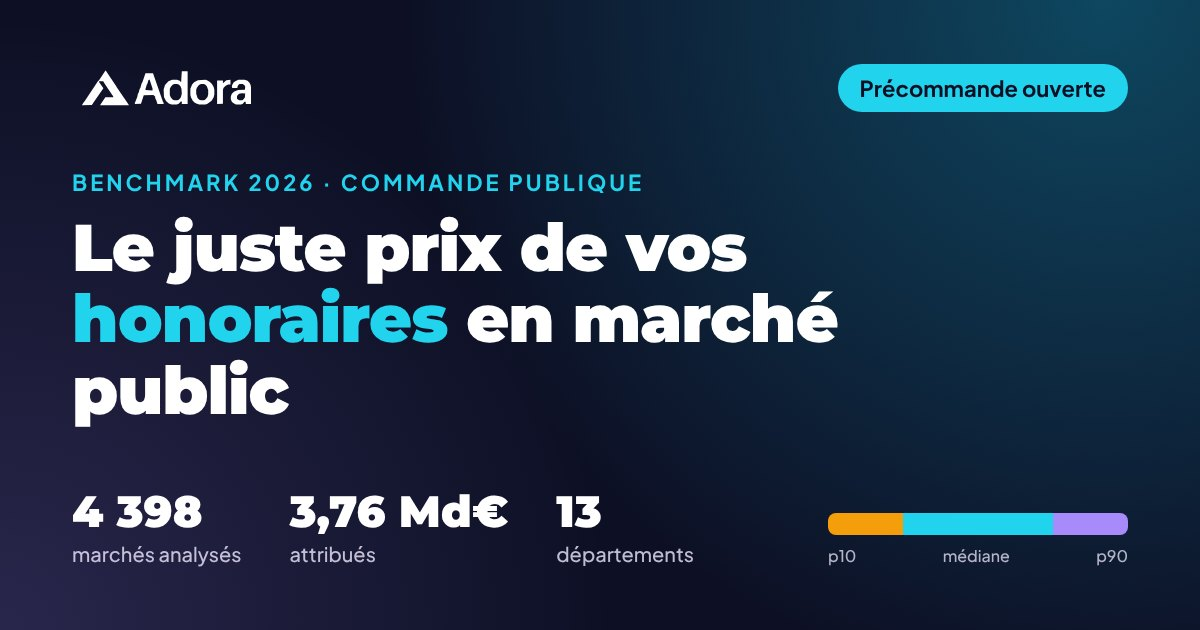
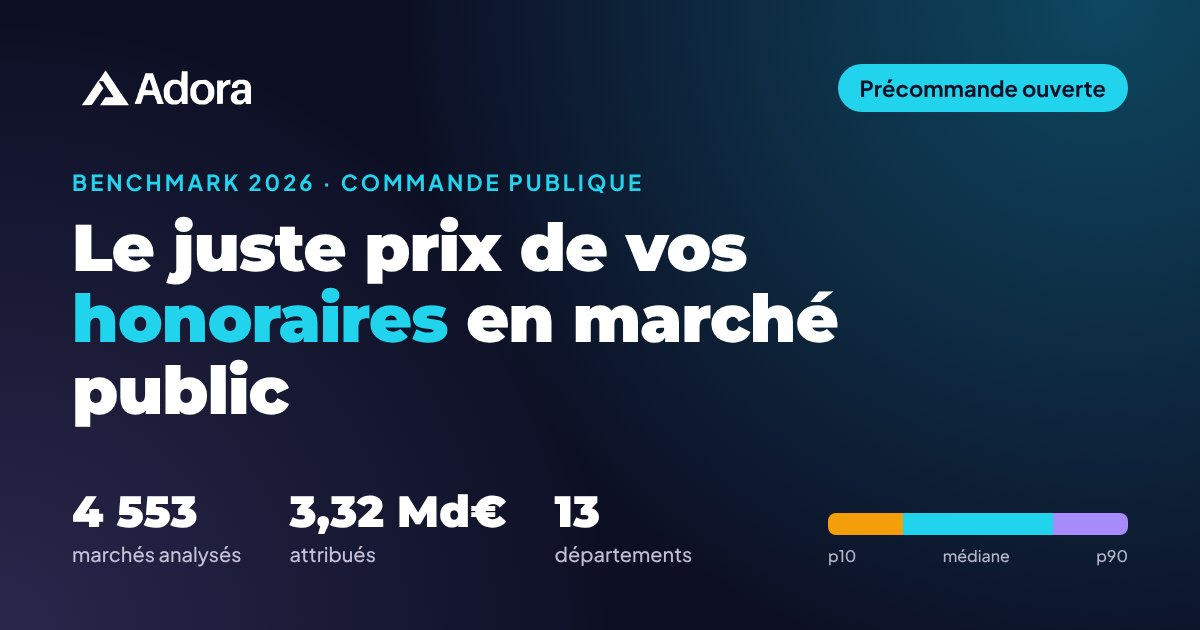
Benchmark : chiffres actualisés sur l'extraction DECP consolidée du 26/10/2026 (4 553 marchés)
Claude-Session: https://claude.ai/code/session_01AMF5KYxt2yLyme2bcbJtRg

diff --git a/benchmark-honoraires.html b/benchmark-honoraires.html
@@ -11,12 +11,12 @@
 <link rel="stylesheet" href="assets/fonts/adora-fonts.css">
 
 <title>Benchmark des honoraires en marché public 2026 | IDF &amp; Normandie | ADORA</title>
-<meta name="description" content="4 398 marchés publics de maîtrise d'œuvre et d'ingénierie analysés en Île-de-France et en Normandie. Fourchettes d'honoraires p10 à p90 par typologie. Précommande 79 €.">
+<meta name="description" content="4 553 marchés publics de maîtrise d'œuvre et d'ingénierie analysés en Île-de-France et en Normandie. Fourchettes d'honoraires p10 à p90 par typologie. Précommande 79 €.">
 <link rel="canonical" href="https://adora-economie.fr/benchmark-honoraires.html">
 <meta property="og:type" content="product">
 <meta property="og:url" content="https://adora-economie.fr/benchmark-honoraires.html">
 <meta property="og:title" content="Le juste prix de vos honoraires en marché public | ADORA">
-<meta property="og:description" content="4 398 marchés de maîtrise d'œuvre et d'ingénierie analysés, fourchettes p10 à p90 par typologie et par département. Précommande au prix de lancement.">
+<meta property="og:description" content="4 553 marchés de maîtrise d'œuvre et d'ingénierie analysés, fourchettes p10 à p90 par typologie et par département. Précommande au prix de lancement.">
 <meta property="og:image" content="https://adora-economie.fr/img/articles/benchmark-honoraires.jpg">
 <meta property="og:image:width" content="1200">
 <meta property="og:image:height" content="630">
@@ -25,7 +25,7 @@
 <meta property="og:site_name" content="ADORA">
 <meta name="twitter:card" content="summary_large_image">
 <meta name="twitter:title" content="Le juste prix de vos honoraires en marché public | ADORA">
-<meta name="twitter:description" content="4 398 marchés publics analysés, fourchettes d'honoraires p10 à p90 par typologie. Précommande 79 €.">
+<meta name="twitter:description" content="4 553 marchés publics analysés, fourchettes d'honoraires p10 à p90 par typologie. Précommande 79 €.">
 <meta name="twitter:image" content="https://adora-economie.fr/img/articles/benchmark-honoraires.jpg">
 <meta name="geo.region" content="FR-NOR">
 <meta name="geo.placename" content="Louviers">
@@ -300,8 +300,8 @@ img{max-width:100%;height:auto}
 .bm-bar-row .lbl{flex:none;width:104px;font-size:13px;font-weight:600;color:rgba(237,233,254,.92)}
 .bm-bar-track{flex:1 1 auto;min-width:0;height:14px;border-radius:100px;background:rgba(255,255,255,.08)}
 .bm-bar-fill{height:14px;border-radius:100px}
-.bm-bar-fill.nor{width:40%;background:var(--green)}
-.bm-bar-fill.idf{width:100%;background:linear-gradient(90deg,var(--accent) 0%,var(--accent) 58%,rgba(34,211,238,.35) 58%,rgba(34,211,238,.35) 100%)}
+.bm-bar-fill.nor{width:68%;background:var(--green)}
+.bm-bar-fill.idf{width:100%;background:var(--accent)}
 .bm-bar-axis{display:flex;gap:12px}
 .bm-bar-axis .sp{flex:none;width:104px}
 .bm-bar-axis .ax{flex:1 1 auto;position:relative;height:18px;font-family:var(--mono);font-size:11.5px;color:rgba(237,233,254,.82)}
@@ -444,7 +444,7 @@ img{max-width:100%;height:auto}
       "@type": "Product",
       "@id": "https://adora-economie.fr/benchmark-honoraires.html#produit",
       "name": "Benchmark des honoraires en marché public 2026",
-      "description": "Rapport PDF et classeur Excel : 4 398 marchés publics de services d'architecture, d'ingénierie et d'inspection (CPV 71) attribués en Île-de-France et en Normandie, analysés par typologie d'opération et par département (fourchettes p10, p25, médiane, p75, p90).",
+      "description": "Rapport PDF et classeur Excel : 4 553 marchés publics de services d'architecture, d'ingénierie et d'inspection (CPV 71) attribués en Île-de-France et en Normandie, analysés par typologie d'opération et par département (fourchettes p10, p25, médiane, p75, p90).",
       "image": "https://adora-economie.fr/img/articles/benchmark-honoraires.jpg",
       "brand": { "@type": "Brand", "name": "ADORA" },
       "category": "Rapport d'étude de marché",
@@ -531,7 +531,7 @@ img{max-width:100%;height:auto}
         <button type="button" class="anav-trigger" aria-expanded="false" aria-controls="anav-pro">Professionnels<svg aria-hidden="true" width="14" height="14" viewBox="0 0 24 24" fill="none" stroke="currentColor" stroke-width="2.4" stroke-linecap="round" stroke-linejoin="round"><path d="M6 9l6 6 6-6"/></svg></button>
         <div class="anav-drop" id="anav-pro"><div class="anav-drop-card">
           <a href="professionnels.html" class="anav-link"><span class="t">Offre professionnels</span><span class="d">Estimations, métrés, CCTP, DPGF, analyse des offres</span></a>
-          <a href="benchmark-honoraires.html" class="anav-link" aria-current="page"><span class="t">Benchmark des honoraires <span class="anav-new">Nouveau</span></span><span class="d">4 398 marchés publics analysés</span></a>
+          <a href="benchmark-honoraires.html" class="anav-link" aria-current="page"><span class="t">Benchmark des honoraires <span class="anav-new">Nouveau</span></span><span class="d">4 553 marchés publics analysés</span></a>
           <a href="partenaires.html#devenir-partenaire" class="anav-link"><span class="t">Devenir partenaire</span><span class="d">Architectes et professionnels du bâtiment</span></a>
         </div></div>
       </li>
@@ -566,7 +566,7 @@ img{max-width:100%;height:auto}
         <span class="hero-badge">Édition 2026</span>
       </div>
       <h1>Le juste prix de vos <em>honoraires</em> en marché public.</h1>
-      <p class="lead">4 398 marchés de prestations d'architecture, d'ingénierie et d'assistance, classés par typologie d'opération et par département. Les fourchettes réellement retenues par les acheteurs publics, réunies dans un seul rapport.</p>
+      <p class="lead">4 553 marchés de prestations d'architecture, d'ingénierie et d'assistance, classés par typologie d'opération et par département. Les fourchettes réellement retenues par les acheteurs publics, réunies dans un seul rapport.</p>
       <div class="bm-hero-ctas">
         <a href="#offre" class="btn btn-accent">Précommander à 79 €</a>
         <a href="#contenu" class="btn btn-outline">Voir le contenu</a>
@@ -575,12 +575,12 @@ img{max-width:100%;height:auto}
     </div>
     <div class="bm-stats">
       <div class="bm-stats-grid">
-        <div><span class="bm-stat-val">4 398</span><span class="bm-stat-lbl">marchés attribués</span></div>
-        <div><span class="bm-stat-val">3,76 Md€</span><span class="bm-stat-lbl">de montants cumulés HT</span></div>
-        <div><span class="bm-stat-val">2 123</span><span class="bm-stat-lbl">titulaires différents</span></div>
+        <div><span class="bm-stat-val">4 553</span><span class="bm-stat-lbl">marchés attribués</span></div>
+        <div><span class="bm-stat-val">3,32 Md€</span><span class="bm-stat-lbl">de montants cumulés HT</span></div>
+        <div><span class="bm-stat-val">3 205</span><span class="bm-stat-lbl">titulaires différents</span></div>
         <div><span class="bm-stat-val">13</span><span class="bm-stat-lbl">départements couverts</span></div>
       </div>
-      <p class="bm-source">Source : DECP, data.economie.gouv.fr · Licence Ouverte 2.0<br>Extraction de mai 2026, actualisée pour la livraison</p>
+      <p class="bm-source">Source : DECP consolidées, data.gouv.fr · Licence Ouverte 2.0<br>Marchés notifiés du 27/10/2024 au 26/10/2026</p>
     </div>
   </div>
 </section>
@@ -625,7 +625,7 @@ img{max-width:100%;height:auto}
         <div class="bm-clean-out">
           <span class="bm-tag">Dans le rapport</span>
           <strong>Réhabilitation / rénovation</strong>
-          <div class="bm-chips"><span class="bm-chip">513 marchés</span><span class="bm-chip">p10 : 50 k€</span><span class="bm-chip">Médiane : 137 k€</span></div>
+          <div class="bm-chips"><span class="bm-chip">544 marchés</span><span class="bm-chip">p10 : 52 k€</span><span class="bm-chip">Médiane : 136 k€</span></div>
         </div>
       </div>
       <p class="bm-clean-end">J'ai rassemblé ces données, je les ai nettoyées et classées, pour que vous puissiez situer votre offre avant de la déposer.</p>
@@ -639,34 +639,34 @@ img{max-width:100%;height:auto}
     <div class="bm-head">
       <span class="bm-eyebrow on-dark">Deux repères tirés du benchmark</span>
       <h2 class="bm-h2 on-dark">Deux chiffres qui changent la façon de chiffrer</h2>
-      <p class="bm-lead on-dark">Extraits de l'analyse des 4 398 marchés. Le rapport les détaille famille par famille.</p>
+      <p class="bm-lead on-dark">Extraits de l'analyse des 4 553 marchés. Le rapport les détaille famille par famille.</p>
     </div>
     <div class="bm-cards-2">
       <div class="bm-dark-card">
         <div>
           <span class="k">Écart territorial</span>
-          <span class="v cyan">+45 % à +150 %</span>
-          <p>L'écart des montants attribués entre l'Île-de-France et la Normandie, selon la famille de prestations.</p>
+          <span class="v cyan">+47 %</span>
+          <p>L'écart de montant médian attribué entre l'Île-de-France et la Normandie, tous marchés confondus. Selon la famille de prestations, il va de −19 % à +217 %.</p>
         </div>
-        <div class="bm-viz" role="img" aria-label="Indice des montants attribués : Normandie 100, Île-de-France de 145 à 250 selon la famille de prestations.">
+        <div class="bm-viz" role="img" aria-label="Montant médian attribué, indice 100 en Normandie : Île-de-France 147.">
           <div class="bm-bar-row" aria-hidden="true"><span class="lbl">Normandie</span><div class="bm-bar-track"><div class="bm-bar-fill nor"></div></div></div>
           <div class="bm-bar-row" aria-hidden="true"><span class="lbl">Île-de-France</span><div class="bm-bar-track"><div class="bm-bar-fill idf"></div></div></div>
-          <div class="bm-bar-axis" aria-hidden="true"><span class="sp"></span><div class="ax"><span style="left:40%">100</span><span style="left:58%">+45 %</span><span>+150 %</span></div></div>
-          <span class="bm-viz-note" aria-hidden="true">Indice 100 = montants attribués en Normandie</span>
+          <div class="bm-bar-axis" aria-hidden="true"><span class="sp"></span><div class="ax"><span style="left:68%">100</span><span>147</span></div></div>
+          <span class="bm-viz-note" aria-hidden="true">Indice 100 = montant médian attribué en Normandie</span>
         </div>
         <p class="bm-takeaway cyan"><strong>Ce que ça change :</strong> un même prix ne se lit pas pareil à Paris et à Évreux. Chiffrer sans repère territorial, c'est se tromper de marché.</p>
       </div>
       <div class="bm-dark-card">
         <div>
           <span class="k">Concentration du marché</span>
-          <span class="v iris">17,6 %</span>
-          <p>La part du volume captée par les 50 premiers titulaires, sur 2 123 titulaires différents.</p>
+          <span class="v iris">1 marché sur 5</span>
+          <p>La part des marchés où l'on retrouve l'un des 50 titulaires les plus actifs, sur 3 205 titulaires différents.</p>
         </div>
         <div class="bm-viz bm-donut-wrap">
-          <svg role="img" aria-label="Les 50 premiers titulaires captent 17,6 % du volume, les 2 073 autres 82,4 %." width="132" height="132" viewBox="0 0 120 120"><circle cx="60" cy="60" r="46" fill="none" stroke="#4A4A7A" stroke-width="16"/><circle cx="60" cy="60" r="46" fill="none" stroke="#A78BFA" stroke-width="16" stroke-dasharray="50.87 289.03" transform="rotate(-90 60 60)"/><text x="60" y="57" text-anchor="middle" font-family="Montserrat, sans-serif" font-weight="800" font-size="16" fill="#FFFFFF">Top 50</text><text x="60" y="74" text-anchor="middle" font-family="ui-monospace, Menlo, monospace" font-size="11" fill="#C9CFE0">17,6 %</text></svg>
+          <svg role="img" aria-label="Les 50 titulaires les plus actifs sont présents dans 20 % des marchés ; 80 % des marchés vont à d'autres titulaires." width="132" height="132" viewBox="0 0 120 120"><circle cx="60" cy="60" r="46" fill="none" stroke="#4A4A7A" stroke-width="16"/><circle cx="60" cy="60" r="46" fill="none" stroke="#A78BFA" stroke-width="16" stroke-dasharray="58.96 289.03" transform="rotate(-90 60 60)"/><text x="60" y="57" text-anchor="middle" font-family="Montserrat, sans-serif" font-weight="800" font-size="16" fill="#FFFFFF">Top 50</text><text x="60" y="74" text-anchor="middle" font-family="ui-monospace, Menlo, monospace" font-size="11" fill="#C9CFE0">20 %</text></svg>
           <div class="bm-legend">
-            <div><i style="background:#A78BFA"></i><span><b>50 premiers titulaires</b><small>17,6 % du volume</small></span></div>
-            <div><i style="background:#4A4A7A;border:1px solid rgba(255,255,255,.3)"></i><span><b>2 073 autres titulaires</b><small>82,4 % du volume</small></span></div>
+            <div><i style="background:#A78BFA"></i><span><b>50 titulaires les plus actifs</b><small>présents dans 20 % des marchés</small></span></div>
+            <div><i style="background:#4A4A7A;border:1px solid rgba(255,255,255,.3)"></i><span><b>3 155 autres titulaires</b><small>seuls sur 80 % des marchés</small></span></div>
           </div>
         </div>
         <p class="bm-takeaway iris"><strong>Ce que ça change :</strong> le marché n'est pas verrouillé. Une structure indépendante bien positionnée y a toute sa place.</p>
@@ -767,9 +767,9 @@ img{max-width:100%;height:auto}
     <div>
       <span class="bm-eyebrow on-dark">La méthode</span>
       <h2 class="bm-h2 on-dark">Des données publiques, lues par un économiste.</h2>
-      <p>Source : données essentielles de la commande publique (DECP), publiées par l'État sur data.economie.gouv.fr sous Licence Ouverte 2.0.</p>
+      <p>Source : données essentielles de la commande publique (DECP) consolidées, publiées sur data.gouv.fr sous Licence Ouverte 2.0.</p>
       <p>Périmètre : marchés de services d'architecture, d'ingénierie et d'inspection (codes CPV 71) de plus de 40 000 € HT, notifiés sur les deux dernières années glissantes, avec un lieu d'exécution dans l'un des 13 départements.</p>
-      <p>Les données DECP sont déclaratives : les montants aberrants sont écartés et chaque traitement est documenté dans le rapport.</p>
+      <p>Les données DECP sont déclaratives : les publications en double sont regroupées, les montants anormaux écartés, et chaque traitement est documenté dans le rapport.</p>
     </div>
     <div class="bm-author">
       <span class="k">L'auteur</span>

diff --git a/professionnels.html b/professionnels.html
@@ -472,7 +472,7 @@ img{max-width:100%;height:auto}
         <button type="button" class="anav-trigger" aria-expanded="false" aria-controls="anav-pro">Professionnels<svg aria-hidden="true" width="14" height="14" viewBox="0 0 24 24" fill="none" stroke="currentColor" stroke-width="2.4" stroke-linecap="round" stroke-linejoin="round"><path d="M6 9l6 6 6-6"/></svg></button>
         <div class="anav-drop" id="anav-pro"><div class="anav-drop-card">
           <a href="professionnels.html" class="anav-link" aria-current="page"><span class="t">Offre professionnels</span><span class="d">Estimations, métrés, CCTP, DPGF, analyse des offres</span></a>
-          <a href="benchmark-honoraires.html" class="anav-link"><span class="t">Benchmark des honoraires <span class="anav-new">Nouveau</span></span><span class="d">4 398 marchés publics analysés</span></a>
+          <a href="benchmark-honoraires.html" class="anav-link"><span class="t">Benchmark des honoraires <span class="anav-new">Nouveau</span></span><span class="d">4 553 marchés publics analysés</span></a>
           <a href="partenaires.html#devenir-partenaire" class="anav-link"><span class="t">Devenir partenaire</span><span class="d">Architectes et professionnels du bâtiment</span></a>
         </div></div>
       </li>
@@ -587,7 +587,7 @@ img{max-width:100%;height:auto}
       <div style="flex:1 1 380px;min-width:0">
         <p style="margin:0 0 8px;font-size:12px;font-weight:700;letter-spacing:2px;text-transform:uppercase;color:#22D3EE">Nouveau · Benchmark 2026</p>
         <p style="margin:0 0 8px;font-family:'Montserrat',sans-serif;font-weight:800;font-size:22px;line-height:1.25;color:#FFFFFF">Et vos propres honoraires en marché public&#8239;?</p>
-        <p style="margin:0;font-size:15px;line-height:1.65;color:rgba(214,228,240,.85)">J'ai analysé 4 398 marchés de maîtrise d'œuvre et d'ingénierie attribués en Île-de-France et en Normandie. Le benchmark donne les fourchettes réellement retenues, typologie par typologie, pour situer votre offre avant de la déposer.</p>
+        <p style="margin:0;font-size:15px;line-height:1.65;color:rgba(214,228,240,.85)">J'ai analysé 4 553 marchés de maîtrise d'œuvre et d'ingénierie attribués en Île-de-France et en Normandie. Le benchmark donne les fourchettes réellement retenues, typologie par typologie, pour situer votre offre avant de la déposer.</p>
       </div>
       <a href="benchmark-honoraires.html" class="btn btn-accent" style="font-size:14px;padding:14px 26px;color:#0D1025;white-space:nowrap">Découvrir le benchmark</a>
     </div>

diff --git a/dpgf-comparable-consultation.html b/dpgf-comparable-consultation.html
@@ -299,7 +299,7 @@ img{max-width:100%;height:auto}
         <button type="button" class="anav-trigger" aria-expanded="false" aria-controls="anav-pro">Professionnels<svg aria-hidden="true" width="14" height="14" viewBox="0 0 24 24" fill="none" stroke="currentColor" stroke-width="2.4" stroke-linecap="round" stroke-linejoin="round"><path d="M6 9l6 6 6-6"/></svg></button>
         <div class="anav-drop" id="anav-pro"><div class="anav-drop-card">
           <a href="professionnels.html" class="anav-link"><span class="t">Offre professionnels</span><span class="d">Estimations, métrés, CCTP, DPGF, analyse des offres</span></a>
-          <a href="benchmark-honoraires.html" class="anav-link"><span class="t">Benchmark des honoraires <span class="anav-new">Nouveau</span></span><span class="d">4 398 marchés publics analysés</span></a>
+          <a href="benchmark-honoraires.html" class="anav-link"><span class="t">Benchmark des honoraires <span class="anav-new">Nouveau</span></span><span class="d">4 553 marchés publics analysés</span></a>
           <a href="partenaires.html#devenir-partenaire" class="anav-link"><span class="t">Devenir partenaire</span><span class="d">Architectes et professionnels du bâtiment</span></a>
         </div></div>
       </li>
@@ -433,7 +433,7 @@ img{max-width:100%;height:auto}
   <div style="flex:1 1 320px;min-width:0">
     <p style="margin:0 0 6px;font-size:12px;font-weight:700;letter-spacing:1.5px;text-transform:uppercase;color:#0E7490">Nouveau · Benchmark 2026</p>
     <p style="margin:0 0 6px;font-family:'Montserrat',sans-serif;font-weight:800;font-size:19px;line-height:1.3;color:#0D1025">Combien les acheteurs publics paient-ils vraiment une mission&#8239;?</p>
-    <p style="margin:0;font-size:15px;line-height:1.6;color:#64748B">4 398 marchés de maîtrise d'œuvre et d'ingénierie analysés en Île-de-France et en Normandie : fourchettes d'honoraires p10 à p90 par typologie et par département.</p>
+    <p style="margin:0;font-size:15px;line-height:1.6;color:#64748B">4 553 marchés de maîtrise d'œuvre et d'ingénierie analysés en Île-de-France et en Normandie : fourchettes d'honoraires p10 à p90 par typologie et par département.</p>
   </div>
   <a href="benchmark-honoraires.html" class="btn btn-accent" style="font-size:14px;padding:14px 24px;color:#0D1025">Découvrir le benchmark</a>
 </aside>

diff --git a/erreur-quantitatif-dce.html b/erreur-quantitatif-dce.html
@@ -299,7 +299,7 @@ img{max-width:100%;height:auto}
         <button type="button" class="anav-trigger" aria-expanded="false" aria-controls="anav-pro">Professionnels<svg aria-hidden="true" width="14" height="14" viewBox="0 0 24 24" fill="none" stroke="currentColor" stroke-width="2.4" stroke-linecap="round" stroke-linejoin="round"><path d="M6 9l6 6 6-6"/></svg></button>
         <div class="anav-drop" id="anav-pro"><div class="anav-drop-card">
           <a href="professionnels.html" class="anav-link"><span class="t">Offre professionnels</span><span class="d">Estimations, métrés, CCTP, DPGF, analyse des offres</span></a>
-          <a href="benchmark-honoraires.html" class="anav-link"><span class="t">Benchmark des honoraires <span class="anav-new">Nouveau</span></span><span class="d">4 398 marchés publics analysés</span></a>
+          <a href="benchmark-honoraires.html" class="anav-link"><span class="t">Benchmark des honoraires <span class="anav-new">Nouveau</span></span><span class="d">4 553 marchés publics analysés</span></a>
           <a href="partenaires.html#devenir-partenaire" class="anav-link"><span class="t">Devenir partenaire</span><span class="d">Architectes et professionnels du bâtiment</span></a>
         </div></div>
       </li>
@@ -425,7 +425,7 @@ img{max-width:100%;height:auto}
   <div style="flex:1 1 320px;min-width:0">
     <p style="margin:0 0 6px;font-size:12px;font-weight:700;letter-spacing:1.5px;text-transform:uppercase;color:#0E7490">Nouveau · Benchmark 2026</p>
     <p style="margin:0 0 6px;font-family:'Montserrat',sans-serif;font-weight:800;font-size:19px;line-height:1.3;color:#0D1025">Combien les acheteurs publics paient-ils vraiment une mission&#8239;?</p>
-    <p style="margin:0;font-size:15px;line-height:1.6;color:#64748B">4 398 marchés de maîtrise d'œuvre et d'ingénierie analysés en Île-de-France et en Normandie : fourchettes d'honoraires p10 à p90 par typologie et par département.</p>
+    <p style="margin:0;font-size:15px;line-height:1.6;color:#64748B">4 553 marchés de maîtrise d'œuvre et d'ingénierie analysés en Île-de-France et en Normandie : fourchettes d'honoraires p10 à p90 par typologie et par département.</p>
   </div>
   <a href="benchmark-honoraires.html" class="btn btn-accent" style="font-size:14px;padding:14px 24px;color:#0D1025">Découvrir le benchmark</a>
 </aside>

diff --git a/honoraires-economiste-mission-moe.html b/honoraires-economiste-mission-moe.html
@@ -299,7 +299,7 @@ img{max-width:100%;height:auto}
         <button type="button" class="anav-trigger" aria-expanded="false" aria-controls="anav-pro">Professionnels<svg aria-hidden="true" width="14" height="14" viewBox="0 0 24 24" fill="none" stroke="currentColor" stroke-width="2.4" stroke-linecap="round" stroke-linejoin="round"><path d="M6 9l6 6 6-6"/></svg></button>
         <div class="anav-drop" id="anav-pro"><div class="anav-drop-card">
           <a href="professionnels.html" class="anav-link"><span class="t">Offre professionnels</span><span class="d">Estimations, métrés, CCTP, DPGF, analyse des offres</span></a>
-          <a href="benchmark-honoraires.html" class="anav-link"><span class="t">Benchmark des honoraires <span class="anav-new">Nouveau</span></span><span class="d">4 398 marchés publics analysés</span></a>
+          <a href="benchmark-honoraires.html" class="anav-link"><span class="t">Benchmark des honoraires <span class="anav-new">Nouveau</span></span><span class="d">4 553 marchés publics analysés</span></a>
           <a href="partenaires.html#devenir-partenaire" class="anav-link"><span class="t">Devenir partenaire</span><span class="d">Architectes et professionnels du bâtiment</span></a>
         </div></div>
       </li>
@@ -433,7 +433,7 @@ img{max-width:100%;height:auto}
   <div style="flex:1 1 320px;min-width:0">
     <p style="margin:0 0 6px;font-size:12px;font-weight:700;letter-spacing:1.5px;text-transform:uppercase;color:#0E7490">Nouveau · Benchmark 2026</p>
     <p style="margin:0 0 6px;font-family:'Montserrat',sans-serif;font-weight:800;font-size:19px;line-height:1.3;color:#0D1025">Combien les acheteurs publics paient-ils vraiment une mission&#8239;?</p>
-    <p style="margin:0;font-size:15px;line-height:1.6;color:#64748B">4 398 marchés de maîtrise d'œuvre et d'ingénierie analysés en Île-de-France et en Normandie : fourchettes d'honoraires p10 à p90 par typologie et par département.</p>
+    <p style="margin:0;font-size:15px;line-height:1.6;color:#64748B">4 553 marchés de maîtrise d'œuvre et d'ingénierie analysés en Île-de-France et en Normandie : fourchettes d'honoraires p10 à p90 par typologie et par département.</p>
   </div>
   <a href="benchmark-honoraires.html" class="btn btn-accent" style="font-size:14px;padding:14px 24px;color:#0D1025">Découvrir le benchmark</a>
 </aside>

diff --git a/rapport-analyse-offres-mapa.html b/rapport-analyse-offres-mapa.html
@@ -299,7 +299,7 @@ img{max-width:100%;height:auto}
         <button type="button" class="anav-trigger" aria-expanded="false" aria-controls="anav-pro">Professionnels<svg aria-hidden="true" width="14" height="14" viewBox="0 0 24 24" fill="none" stroke="currentColor" stroke-width="2.4" stroke-linecap="round" stroke-linejoin="round"><path d="M6 9l6 6 6-6"/></svg></button>
         <div class="anav-drop" id="anav-pro"><div class="anav-drop-card">
           <a href="professionnels.html" class="anav-link"><span class="t">Offre professionnels</span><span class="d">Estimations, métrés, CCTP, DPGF, analyse des offres</span></a>
-          <a href="benchmark-honoraires.html" class="anav-link"><span class="t">Benchmark des honoraires <span class="anav-new">Nouveau</span></span><span class="d">4 398 marchés publics analysés</span></a>
+          <a href="benchmark-honoraires.html" class="anav-link"><span class="t">Benchmark des honoraires <span class="anav-new">Nouveau</span></span><span class="d">4 553 marchés publics analysés</span></a>
           <a href="partenaires.html#devenir-partenaire" class="anav-link"><span class="t">Devenir partenaire</span><span class="d">Architectes et professionnels du bâtiment</span></a>
         </div></div>
       </li>
@@ -429,7 +429,7 @@ img{max-width:100%;height:auto}
   <div style="flex:1 1 320px;min-width:0">
     <p style="margin:0 0 6px;font-size:12px;font-weight:700;letter-spacing:1.5px;text-transform:uppercase;color:#0E7490">Nouveau · Benchmark 2026</p>
     <p style="margin:0 0 6px;font-family:'Montserrat',sans-serif;font-weight:800;font-size:19px;line-height:1.3;color:#0D1025">Combien les acheteurs publics paient-ils vraiment une mission&#8239;?</p>
-    <p style="margin:0;font-size:15px;line-height:1.6;color:#64748B">4 398 marchés de maîtrise d'œuvre et d'ingénierie analysés en Île-de-France et en Normandie : fourchettes d'honoraires p10 à p90 par typologie et par département.</p>
+    <p style="margin:0;font-size:15px;line-height:1.6;color:#64748B">4 553 marchés de maîtrise d'œuvre et d'ingénierie analysés en Île-de-France et en Normandie : fourchettes d'honoraires p10 à p90 par typologie et par département.</p>
   </div>
   <a href="benchmark-honoraires.html" class="btn btn-accent" style="font-size:14px;padding:14px 24px;color:#0D1025">Découvrir le benchmark</a>
 </aside>

diff --git a/blog.html b/blog.html
@@ -556,7 +556,7 @@ img{max-width:100%;height:auto}
         <button type="button" class="anav-trigger" aria-expanded="false" aria-controls="anav-pro">Professionnels<svg aria-hidden="true" width="14" height="14" viewBox="0 0 24 24" fill="none" stroke="currentColor" stroke-width="2.4" stroke-linecap="round" stroke-linejoin="round"><path d="M6 9l6 6 6-6"/></svg></button>
         <div class="anav-drop" id="anav-pro"><div class="anav-drop-card">
           <a href="professionnels.html" class="anav-link"><span class="t">Offre professionnels</span><span class="d">Estimations, métrés, CCTP, DPGF, analyse des offres</span></a>
-          <a href="benchmark-honoraires.html" class="anav-link"><span class="t">Benchmark des honoraires <span class="anav-new">Nouveau</span></span><span class="d">4 398 marchés publics analysés</span></a>
+          <a href="benchmark-honoraires.html" class="anav-link"><span class="t">Benchmark des honoraires <span class="anav-new">Nouveau</span></span><span class="d">4 553 marchés publics analysés</span></a>
           <a href="partenaires.html#devenir-partenaire" class="anav-link"><span class="t">Devenir partenaire</span><span class="d">Architectes et professionnels du bâtiment</span></a>
         </div></div>
       </li>
@@ -709,11 +709,11 @@ img{max-width:100%;height:auto}
       <aside class="pb-bench" aria-labelledby="pb-bench-title">
         <span class="pb-bench-tag">Précommande ouverte</span>
         <h3 id="pb-bench-title">Benchmark des honoraires en marché public 2026</h3>
-        <span class="pb-measure"><span class="pb-fig">4 398</span><span class="pb-dim"></span></span>
+        <span class="pb-measure"><span class="pb-fig">4 553</span><span class="pb-dim"></span></span>
         <span class="pb-cap">marchés attribués en Île-de-France et en Normandie, classés par typologie et par département</span>
         <dl class="pb-bench-stats">
-          <div><dt>3,76 Md€</dt><dd>de montants cumulés HT</dd></div>
-          <div><dt>2 123</dt><dd>titulaires différents</dd></div>
+          <div><dt>3,32 Md€</dt><dd>de montants cumulés HT</dd></div>
+          <div><dt>3 205</dt><dd>titulaires différents</dd></div>
         </dl>
         <ul>
           <li>Fourchettes d'honoraires du p10 au p90</li>

diff --git a/index.html b/index.html
@@ -284,7 +284,7 @@ img{max-width:100%;height:auto}
         <button type="button" class="anav-trigger" aria-expanded="false" aria-controls="anav-pro">Professionnels<svg aria-hidden="true" width="14" height="14" viewBox="0 0 24 24" fill="none" stroke="currentColor" stroke-width="2.4" stroke-linecap="round" stroke-linejoin="round"><path d="M6 9l6 6 6-6"/></svg></button>
         <div class="anav-drop" id="anav-pro"><div class="anav-drop-card">
           <a href="professionnels.html" class="anav-link"><span class="t">Offre professionnels</span><span class="d">Estimations, métrés, CCTP, DPGF, analyse des offres</span></a>
-          <a href="benchmark-honoraires.html" class="anav-link"><span class="t">Benchmark des honoraires <span class="anav-new">Nouveau</span></span><span class="d">4 398 marchés publics analysés</span></a>
+          <a href="benchmark-honoraires.html" class="anav-link"><span class="t">Benchmark des honoraires <span class="anav-new">Nouveau</span></span><span class="d">4 553 marchés publics analysés</span></a>
           <a href="partenaires.html#devenir-partenaire" class="anav-link"><span class="t">Devenir partenaire</span><span class="d">Architectes et professionnels du bâtiment</span></a>
         </div></div>
       </li>
@@ -431,7 +431,7 @@ img{max-width:100%;height:auto}
       </a>
       <a class="hm-tile" href="benchmark-honoraires.html" data-ev="pro_benchmark">
         <h3>Benchmark des honoraires 2026</h3>
-        <div class="hm-measure"><span class="hm-fig">4&nbsp;398</span><span class="hm-dim" aria-hidden="true"></span></div>
+        <div class="hm-measure"><span class="hm-fig">4&nbsp;553</span><span class="hm-dim" aria-hidden="true"></span></div>
         <span class="hm-cap">marchés publics d'architecture et d'ingénierie analysés</span>
         <p>Le juste prix de vos honoraires, typologie par typologie, en Île-de-France et en Normandie.</p>
         <span class="hm-tile-go">Découvrir le benchmark →</span>

diff --git a/paiement-reussi-benchmark.html b/paiement-reussi-benchmark.html
@@ -254,7 +254,7 @@ img{max-width:100%;height:auto}
         <button type="button" class="anav-trigger" aria-expanded="false" aria-controls="anav-pro">Professionnels<svg aria-hidden="true" width="14" height="14" viewBox="0 0 24 24" fill="none" stroke="currentColor" stroke-width="2.4" stroke-linecap="round" stroke-linejoin="round"><path d="M6 9l6 6 6-6"/></svg></button>
         <div class="anav-drop" id="anav-pro"><div class="anav-drop-card">
           <a href="professionnels.html" class="anav-link"><span class="t">Offre professionnels</span><span class="d">Estimations, métrés, CCTP, DPGF, analyse des offres</span></a>
-          <a href="benchmark-honoraires.html" class="anav-link" aria-current="page"><span class="t">Benchmark des honoraires <span class="anav-new">Nouveau</span></span><span class="d">4 398 marchés publics analysés</span></a>
+          <a href="benchmark-honoraires.html" class="anav-link" aria-current="page"><span class="t">Benchmark des honoraires <span class="anav-new">Nouveau</span></span><span class="d">4 553 marchés publics analysés</span></a>
           <a href="partenaires.html#devenir-partenaire" class="anav-link"><span class="t">Devenir partenaire</span><span class="d">Architectes et professionnels du bâtiment</span></a>
         </div></div>
       </li>

diff --git a/audit-formulaire.html b/audit-formulaire.html
@@ -270,7 +270,7 @@ input,select,textarea{font-family:inherit}
         <button type="button" class="anav-trigger" aria-expanded="false" aria-controls="anav-pro">Professionnels<svg aria-hidden="true" width="14" height="14" viewBox="0 0 24 24" fill="none" stroke="currentColor" stroke-width="2.4" stroke-linecap="round" stroke-linejoin="round"><path d="M6 9l6 6 6-6"/></svg></button>
         <div class="anav-drop" id="anav-pro"><div class="anav-drop-card">
           <a href="professionnels.html" class="anav-link"><span class="t">Offre professionnels</span><span class="d">Estimations, métrés, CCTP, DPGF, analyse des offres</span></a>
-          <a href="benchmark-honoraires.html" class="anav-link"><span class="t">Benchmark des honoraires <span class="anav-new">Nouveau</span></span><span class="d">4 398 marchés publics analysés</span></a>
+          <a href="benchmark-honoraires.html" class="anav-link"><span class="t">Benchmark des honoraires <span class="anav-new">Nouveau</span></span><span class="d">4 553 marchés publics analysés</span></a>
           <a href="partenaires.html#devenir-partenaire" class="anav-link"><span class="t">Devenir partenaire</span><span class="d">Architectes et professionnels du bâtiment</span></a>
         </div></div>
       </li>

diff --git a/simulateur.html b/simulateur.html
@@ -384,7 +384,7 @@ input,select,textarea{font-family:inherit}
         <button type="button" class="anav-trigger" aria-expanded="false" aria-controls="anav-pro">Professionnels<svg aria-hidden="true" width="14" height="14" viewBox="0 0 24 24" fill="none" stroke="currentColor" stroke-width="2.4" stroke-linecap="round" stroke-linejoin="round"><path d="M6 9l6 6 6-6"/></svg></button>
         <div class="anav-drop" id="anav-pro"><div class="anav-drop-card">
           <a href="professionnels.html" class="anav-link"><span class="t">Offre professionnels</span><span class="d">Estimations, métrés, CCTP, DPGF, analyse des offres</span></a>
-          <a href="benchmark-honoraires.html" class="anav-link"><span class="t">Benchmark des honoraires <span class="anav-new">Nouveau</span></span><span class="d">4 398 marchés publics analysés</span></a>
+          <a href="benchmark-honoraires.html" class="anav-link"><span class="t">Benchmark des honoraires <span class="anav-new">Nouveau</span></span><span class="d">4 553 marchés publics analysés</span></a>
           <a href="partenaires.html#devenir-partenaire" class="anav-link"><span class="t">Devenir partenaire</span><span class="d">Architectes et professionnels du bâtiment</span></a>
         </div></div>
       </li>

diff --git a/paiement-reussi.html b/paiement-reussi.html
@@ -172,7 +172,7 @@ a{color:inherit;text-decoration:none}
         <button type="button" class="anav-trigger" aria-expanded="false" aria-controls="anav-pro">Professionnels<svg aria-hidden="true" width="14" height="14" viewBox="0 0 24 24" fill="none" stroke="currentColor" stroke-width="2.4" stroke-linecap="round" stroke-linejoin="round"><path d="M6 9l6 6 6-6"/></svg></button>
         <div class="anav-drop" id="anav-pro"><div class="anav-drop-card">
           <a href="professionnels.html" class="anav-link"><span class="t">Offre professionnels</span><span class="d">Estimations, métrés, CCTP, DPGF, analyse des offres</span></a>
-          <a href="benchmark-honoraires.html" class="anav-link"><span class="t">Benchmark des honoraires <span class="anav-new">Nouveau</span></span><span class="d">4 398 marchés publics analysés</span></a>
+          <a href="benchmark-honoraires.html" class="anav-link"><span class="t">Benchmark des honoraires <span class="anav-new">Nouveau</span></span><span class="d">4 553 marchés publics analysés</span></a>
           <a href="partenaires.html#devenir-partenaire" class="anav-link"><span class="t">Devenir partenaire</span><span class="d">Architectes et professionnels du bâtiment</span></a>
         </div></div>
       </li>
